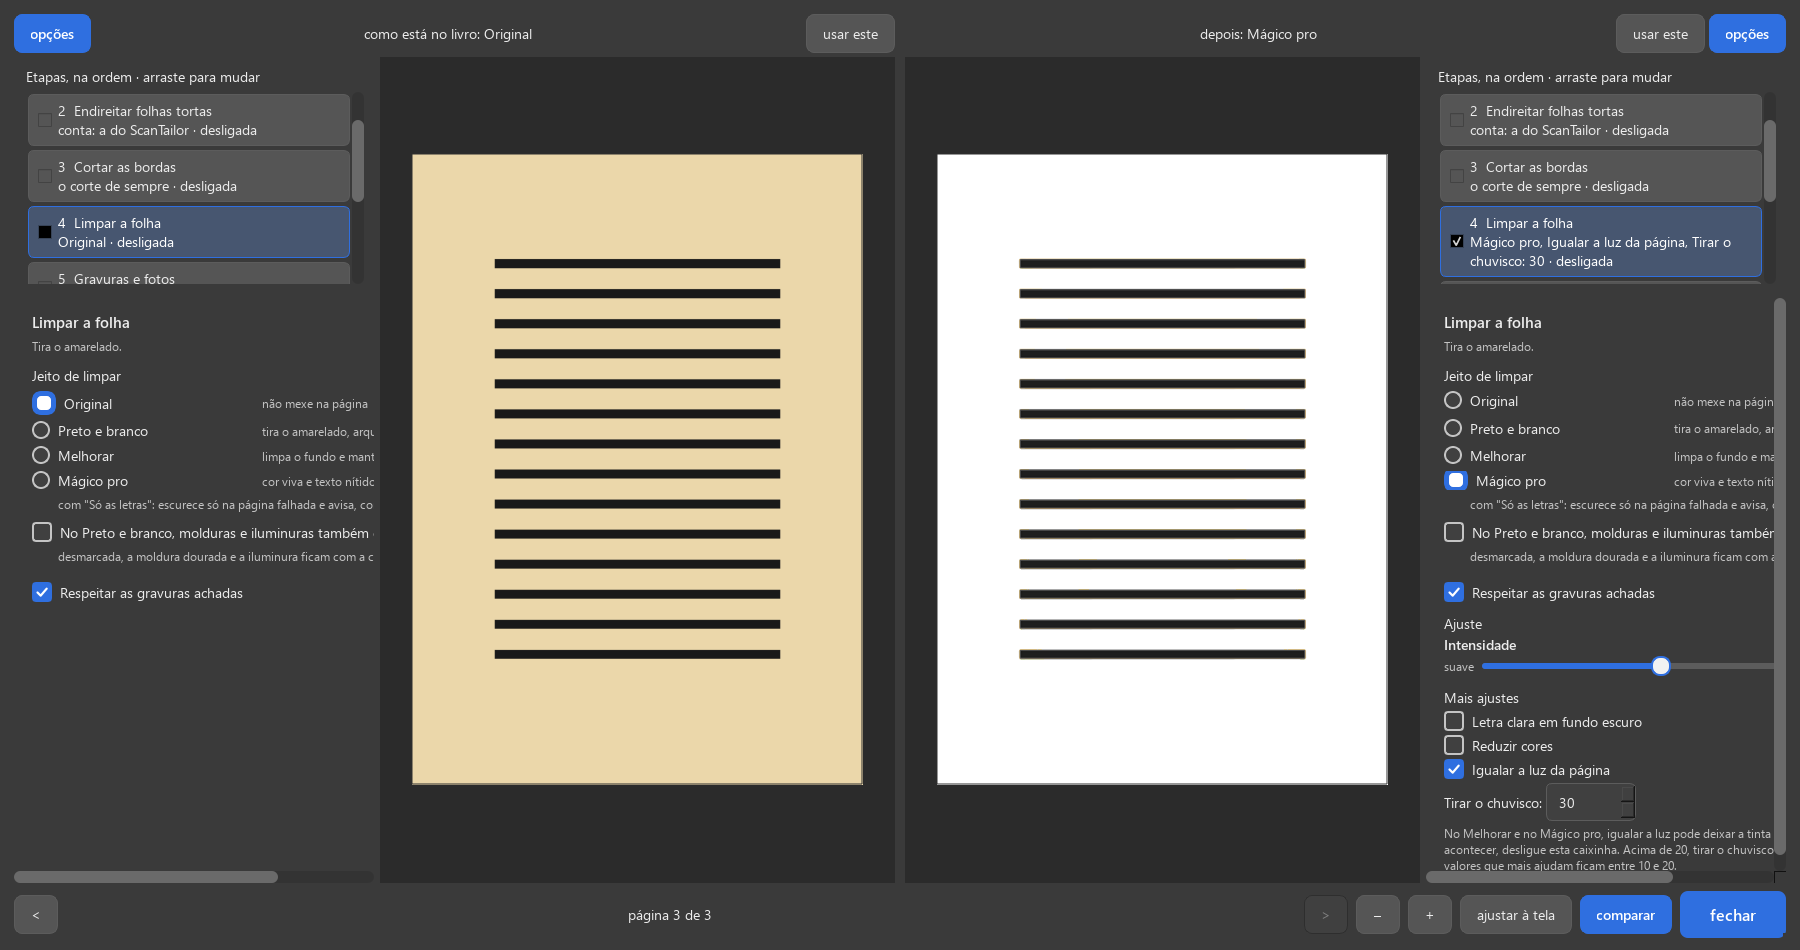
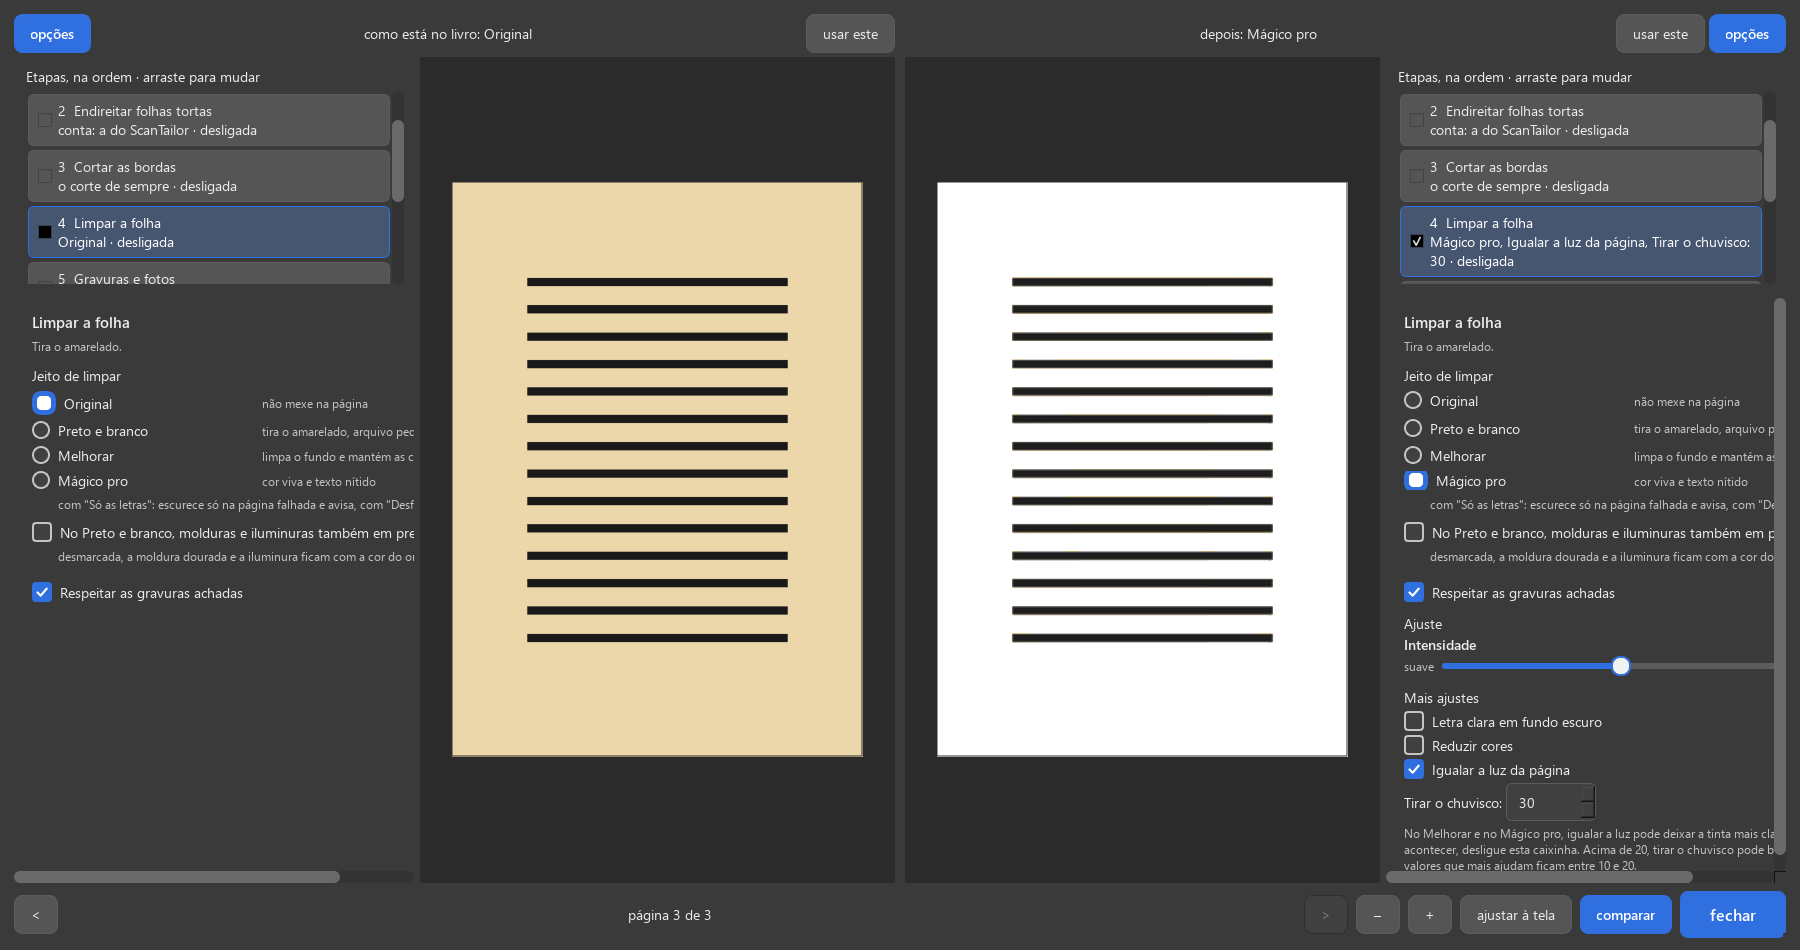
ONDE-PAREI: como cumpri (4ª rodada); prints refeitos

Changed region(s): [[0.1867, 0.0611, 0.9956, 0.9463], [0.9022, 0.6716, 0.9333, 0.7326], [0.1556, 0.9158, 0.1867, 0.9463]]

diff --git a/relatorios/automatico-ver-como-fica/ONDE-PAREI.md b/relatorios/automatico-ver-como-fica/ONDE-PAREI.md
@@ -280,11 +280,12 @@ opções que faltam do automatico" · "Sim, podemos fazer isso junto com a taref
 
 ## Andamento (4ª rodada)
 
-- [ ] A: opções novas no core (campos da página, gravadas pelo "Limpar a folha") e na receita
-- [ ] A: as opções na janela (com os mesmos nomes do painel)
-- [ ] B: o painel de opções separado da janela (o mesmo nos dois lados do comparar)
-- [ ] B: comparar com opções nos dois lados e "usar este"
-- [ ] provas, testes um por um, prints, GitHub
+- [x] A: opções novas no core (campos da página, gravadas pelo "Limpar a folha") e na receita
+- [x] A: as opções na janela (com os mesmos nomes do painel)
+- [x] B: o painel de opções separado da janela (o mesmo nos dois lados do comparar)
+- [x] B: comparar com opções nos dois lados e "usar este"
+- [x] provas (18), prints (8-*, 9-*), testes um por um
+- [ ] GitHub
 
 ## Perguntas para o Samuel (4ª rodada)
 
@@ -296,3 +297,60 @@ opções que faltam do automatico" · "Sim, podemos fazer isso junto com a taref
    Enquanto você não mexe no lado esquerdo, ele continua dizendo "como está no livro: <filtro>"; depois que você muda
    uma opção nele, passa a dizer "depois: <filtro>", como o lado direito, porque também mostra como a página vai sair.
    Sugestão: fica assim. Sim ou não?
+
+## Como cumpri cada uma (4ª rodada)
+
+- **D-594, todas as opções do painel Filtro, com os mesmos nomes.** Conferido no código do painel
+  (`ui/tela_conferir._montar_aba_filtro`) o que faltava no "Limpar a folha": o "Ajuste" (a barra "Força do preto" /
+  "Clareza do fundo" / "Intensidade", um valor por filtro: estava faltando também, não só os da lista), o "Jeito do
+  preto e branco" (Automático, os três de sempre e os dez do ScanTailor), "Letra clara em fundo escuro", "Letras com a
+  cor delas", "Reduzir cores", "Igualar a luz da página", "Suavizar as letras", "Tirar o chuvisco" (com os avisos de
+  luz do painel) e "Respeitar as gravuras achadas". "Limpar a sujeira" e "Só as letras" já estavam. Fora do painel
+  Filtro (não entram): "Aplicar em", "deixar em branco", "tirar do livro" (são ações, não opções). Onde:
+  `ui/automatico.PainelDeOpcoes._opcoes_do_painel_filtro`; aparecem com as regras do painel (só no Preto e branco o
+  jeito, as letras com a cor e o suavizar; o "Mais ajustes" e o "Ajuste" só nos filtros com ajuste; "Respeitar" em
+  todos e cinza com "Só as letras", D-587). Provas: `test_d594_cada_opcao_do_painel_filtro_esta_no_limpar_a_folha_com_o_mesmo_nome`
+  (lê os nomes da tela de conferir de verdade e compara; a lista dos jeitos é igual item por item),
+  `test_d594_aparecem_como_no_painel_conforme_o_filtro`. Prints `8-automatico-limpar-preto-e-branco-mais-ajustes.png`,
+  `8-automatico-jeito-do-preto-e-branco.png`, `8-automatico-limpar-magico-pro-chuvisco-30.png`.
+- **D-594, o mesmo resultado que escolher no painel (mesmos campos, nada de conta nova).** As opções são os campos da
+  página (`core/automatico.CAMPOS_DA_PAGINA`); o "Rodar" grava, em cada página onde o "Limpar a folha" roda (as
+  puladas pela pergunta D-004 ficam), as que o painel mostra com aquele filtro (`campos_da_pagina_no_filtro`), na
+  mesma ação do desfazer. A "Força do preto" escurecida sozinha pelo programa não é desfeita se o valor pedido é o
+  de antes do reforço (`_valor_da_pagina`). Prova: `test_d594_rodar_com_a_opcao_da_o_mesmo_que_escolher_no_painel`,
+  11 casos (uma por opção, inclusive os três ajustes): os campos da página e a página desenhada saem iguais pelos dois
+  caminhos; o Ctrl+Z desfaz o Automático com a opção junto.
+- **D-577 + D-594, a prévia mostra a mudança.** `test_d594_a_previa_mostra_a_mudanca_da_opcao` ("Tirar o chuvisco" 60
+  muda o depois; 0 volta ao mesmo).
+- **Receitas.** As chaves novas entram em `core/perfis.CAMPOS` (a receita do Automático as guarda como as outras).
+  Receita antiga não tem as chaves: posta, as opções novas ficam como estavam (nada quebra; não precisou mudar o
+  formato de um jeito que quebre). "De fábrica" põe as de uma página nova. A caixa da receita diz as novas que não
+  estão de fábrica, com os nomes do painel. Prova: `test_d594_a_receita_leva_as_opcoes_novas_e_a_antiga_continua_valendo`.
+- **D-577, comparar: aba com todas as opções em cada lado, mudando à parte.** O miolo da janela virou
+  `PainelDeOpcoes` (a lista das etapas e as opções de cada etapa); a janela grande e cada lado do comparar usam o
+  MESMO (sem cópia de código). Cada lado (`LadoDoComparar`) tem um estado só dele, o botão "opções" (abre e fecha a
+  aba) e o "usar este". A esquerda começa das opções do livro como está e mostra a página como está no livro (como
+  era); a direita começa das opções da janela e mostra o depois da janela (e acompanha a janela enquanto não é
+  mexida). Mexido, o lado mostra como a página sai com as opções dele (a mesma conta da prévia, numa cópia; só o
+  depois; bolinha girando). Provas: `test_d577_cada_lado_do_comparar_tem_a_aba_com_todas_as_opcoes_e_o_usar_este`,
+  `test_d577_lado_direito_nao_mexido_acompanha_a_janela`. Prints `9-comparar-abas-fechadas.png`,
+  `9-comparar-abas-abertas-direita-magico-pro.png`.
+- **D-577, "usar este" passa as opções para a janela; o "Rodar" usa as da janela; nada muda no livro.**
+  `test_d577_mudar_um_lado_nao_muda_a_janela_e_usar_este_passa_para_ela` (os dois lados; o pedido do "Rodar" sai com
+  as opções passadas; o livro e o desfazer iguais). Prints `9-comparar-depois-de-usar-este-da-direita.png`,
+  `9-janela-depois-de-usar-este-magico-pro.png`.
+- **Reversão (§11 regra 4):** as provas novas rodadas no código de antes (2822470) falham: "\"Letra clara em fundo
+  escuro\" (painel Filtro) não está no \"Limpar a folha\" do Automático", "no attribute 'CAMPOS_DA_PAGINA'",
+  "cannot import name 'PainelDeOpcoes'".
+- **O painel Filtro não mudou** (nenhuma linha de `ui/tela_conferir.py`; os nomes cortados de lá não são desta tarefa).
+
+## Ressalvas (4ª rodada)
+
+- Mexi em `core/` (`core/automatico.py`: o "Limpar a folha" grava os campos da página; `core/perfis.py`: as chaves da
+  receita). Nada do desenho da página (`core/pipeline`) mudou; o rodar faz uma volta a mais pelas páginas comparando
+  11 campos. O filtro de velocidade do GitHub não foi rodado.
+- No lado do comparar, a aba tem 400 pontos de largura: as frases ao lado dos filtros ficam cortadas e a aba rola de
+  lado (como a coluna estreita). Em tela pequena as duas abas abertas deixam pouca página à vista.
+- Bug que já existia (não consertei, não é desta tarefa): no "Limpar a folha", fora do Preto e branco, a caixinha
+  "Escurecer sozinho a força do preto..." some mas a frase de baixo dela fica ("com "Só as letras": escurece só na
+  página falhada..."); aparece no print `9-comparar-abas-abertas-direita-magico-pro.png`. Para a Lista de bugs.
